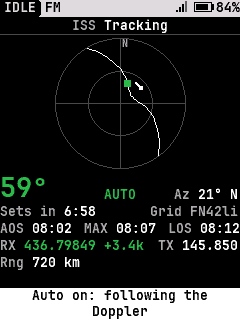
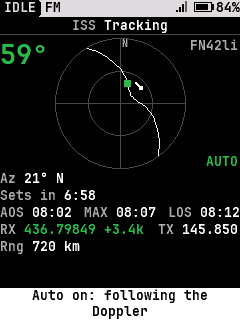
Tracking: elevation and the bare locator in the plot's top corners, AUTO in the bottom one
On a tall panel the corners of the plot's square are empty. The elevation (nothing while below the horizon) goes
top left, the locator without its label top right, AUTO bottom right. That frees the elevation's row and the
locator's room for the numbers below. The 'Grid' label is gone from the screen.

Claude-Session: https://claude.ai/code/session_01MdiBNQ6CEoU6TQqfu2kZeZ

diff --git a/core/ui/ui_sat.c b/core/ui/ui_sat.c
@@ -801,18 +801,13 @@ static void track_draw(void)
 	bool alt_row = alt_hz != 0 && prof && p.down_hz != 0;
 	bool tune_row = !on && have_p;
 	// Where you are, for the grid locator a contact asks for
-	char loc[8], grid[16];
-	loc[0] = grid[0] = '\0';
+	char loc[8];
+	loc[0] = '\0';
 	if (st.pos_ok) {
 		sbuf_t lb;
 		sb_init(&lb, loc, sizeof loc);
 		sb_locator(&lb, st.lat_e7, st.lon_e7);
-		sb_init(&lb, grid, sizeof grid);
-		sb_str(&lb, TR("Grid"));
-		sb_chr(&lb, ' ');
-		sb_str(&lb, loc);
 	}
-	int grid_w = gfx_text_width(fs, grid);
 	// The pass's three times in the chosen zone (Pass times: local or UTC), the highest point from the service
 	uint32_t t_max = trk_tca != 0 ? trk_tca : trk_aos / 2u + trk_los / 2u;
 	char t_aos[8], t_max_s[8], t_los[8];
@@ -834,7 +829,7 @@ static void track_draw(void)
 	int t_rows = !below || !times ? 0 : t_cols ? 1 : 2;
 	int side = below ? w : (h < w / 2 ? h : w / 2);
 	if (below) {
-		int need = (seen ? big->h + 1 : have ? fs->h + 2 : 0) + (st.utc != 0 ? rh : 0) + t_rows * rh +
+		int need = (seen ? rh : have ? fs->h + 2 : 0) + (st.utc != 0 ? rh : 0) + t_rows * rh +
 			   (one_row ? rh : (rxs[0] != '\0' ? rh : 0) + (txs[0] != '\0' ? rh : 0)) + (alt_row ? rh : 0) +
 			   (tune_row ? rh : 0) + (trk_follow.on && !one_row ? rh : 0) + (seen ? rh : 0);
 		int fit = h - need - 3;
@@ -846,10 +841,22 @@ static void track_draw(void)
 	int r = side / 2 - 1;
 	int cx = below ? w / 2 : r + 1, cy = y + r + 1;
 	plot(cx, cy, r, seen ? &live : NULL);
+	if (below) {
+		// The corners of the plot's square are empty: the elevation large at the left (nothing while below the horizon), the
+		// locator at the right, bare ("FN42li": a contact that asks for it knows what it looks like)
+		if (seen) {
+			sbuf_t eb;
+			char el[8];
+			sb_init(&eb, el, sizeof el);
+			sb_i32(&eb, live.el);
+			sb_str(&eb, GLYPH_DEGREE);
+			gfx_text(big, 0, y + 1, el, ui_col.rx);
+		}
+		if (loc[0] != '\0')
+			gfx_text(fs, w - gfx_text_width(fs, loc) - 2, y + 1, loc, ui_col.dim);
+	}
 	int x = below ? 0 : cx + r + 5;
 	int ty = below ? cy + r + 3 : y;
-	int cd_y = ty;		// the countdown's row (the first row of the numbers when there is no countdown)
-	int el_y = ty;		// the elevation's row
 	bool near = st.utc == 0 || (st.utc + UI_SAT_TRACK_MARGIN_S >= trk_aos && st.utc < trk_los + UI_SAT_TRACK_MARGIN_S);
 	if (!seen) {
 		sb_init(&b, buf, sizeof buf);
@@ -861,6 +868,12 @@ static void track_draw(void)
 			gfx_text(ui_layout.small, x, ty, buf, ui_col.dim);
 			ty += ui_layout.small->h + 2;
 		}
+	} else if (below) {
+		sb_init(&b, buf, sizeof buf);
+		sb_u32(&b, live.az, 1);
+		sb_str(&b, GLYPH_DEGREE " ");
+		sb_compass(&b, live.az);
+		trow(x, &ty, "Az", buf, ui_col.fg);
 	} else {
 		// "62°" large, then the way across the sky: on the same row when it fits (a line saved for the times), else under it
 		sb_init(&b, buf, sizeof buf);
@@ -889,11 +902,9 @@ static void track_draw(void)
 			trow(x, &ty, "Az", az, ui_col.fg);
 		}
 	}
-	bool cd_grid = false;	// the locator is on the countdown's row
 	// The countdown: to the set while it is up, else to the rise (it comes before the rest: a small panel has no room).
 	// Beside the plot the row also carries the time of that event, the locator after them when it fits
 	if (st.utc != 0) {
-		cd_y = ty;
 		bool up = st.utc >= trk_aos && st.utc < trk_los;
 		char cd[16], c1[40], c2[40], c3[40];
 		sb_init(&b, cd, sizeof cd);
@@ -922,16 +933,9 @@ static void track_draw(void)
 		// Beside the plot the label is the event (its time is in the row); on a tall panel the times row below has AOS and LOS,
 		// so this one says what the countdown is to, in words
 		const char *lab = st.utc >= trk_los ? "" : below ? (up ? TR("Sets in") : TR("Rises in")) : up ? "LOS" : "AOS";
-		int cd_w = gfx_text_width(fs, lab) + fs->w + gfx_text_width(fs, cands[nc - 1]);
 		trow_fit(x, &ty, lab, cands, nc, st.utc >= trk_los ? ui_col.warn : ui_col.fg);
-		// A tall panel: the locator goes right aligned on this row if it fits, else on the LOS row below
-		if (below && grid[0] != '\0' && cd_w + 2 * fs->w + grid_w <= w) {
-			gfx_text(fs, w - grid_w - 2, cd_y, grid, ui_col.dim);
-			cd_grid = true;
-		}
 	}
 	// The pass's times (a tall panel; beside the plot they come after the frequencies, below)
-	bool grid_done = cd_grid;
 	if (below && times) {
 		int gap = t_cols ? (w - tw[0] - tw[1] - tw[2]) / 2 : 0;
 		if (t_cols && ty + fs->h <= ui_layout.hint_y) {
@@ -953,16 +957,11 @@ static void track_draw(void)
 			}
 			if (ty + fs->h <= ui_layout.hint_y) {
 				int lx = gfx_text(fs, 0, ty, "LOS", ui_col.dim);
-				lx = gfx_text(fs, lx + fs->w, ty, t_los, ui_col.fg);
-				if (!grid_done && grid[0] != '\0' && lx + 2 * fs->w + grid_w <= w) {
-					gfx_text(fs, w - grid_w - 2, ty, grid, ui_col.dim);
-					grid_done = true;
-				}
+				gfx_text(fs, lx + fs->w, ty, t_los, ui_col.fg);
 				ty += rh;
 			}
 		}
 	}
-	int rx_y = ty, rx_end = 0;	// the RX row, and where its text ends: AUTO goes at its right
 	if (one_row && ty + fs->h <= ui_layout.hint_y) {
 		int lx = gfx_text(fs, 0, ty, "RX", ui_col.dim);
 		gfx_text(fs, lx + fs->w, ty, rxs, rc);
@@ -970,10 +969,8 @@ static void track_draw(void)
 		gfx_text(fs, lx + fs->w, ty, txs, tc);
 		ty += rh;
 	} else {
-		if (rxs[0] != '\0') {
+		if (rxs[0] != '\0')
 			trow(x, &ty, "RX", rxs, rc);
-			rx_end = x + rxw;
-		}
 		if (txs[0] != '\0')
 			trow(x, &ty, "TX", txs, tc);
 	}
@@ -998,14 +995,11 @@ static void track_draw(void)
 		trow(x, &ty, room ? word : ">", buf, ui_col.dim);
 	}
 	if (trk_follow.on) {
-		// On a tall panel "AUTO" ends the RX row (the first row of the numbers is the grid's, or the elevation's); else,
-		// and where the RX text runs too far right for it, an "Auto" row
+		// On a tall panel "AUTO" goes in the plot's empty lower right corner; else an "Auto" row
 		const font_t *sm = ui_layout.small;
 		int ax = w - gfx_text_width(sm, "AUTO") - 2;
-		if (one_row)	// RX and TX share their row: AUTO goes on the elevation's, between it and the azimuth
-			gfx_text(sm, w / 2 - gfx_text_width(sm, "AUTO") / 2, el_y + big->h - sm->h, "AUTO", ui_col.rx);
-		else if (below && rx_end != 0 && rx_end + sm->w <= ax)
-			gfx_text(sm, ax, rx_y, "AUTO", ui_col.rx);
+		if (below)	// the plot's lower right corner is empty
+			gfx_text(sm, ax, y + side - sm->h, "AUTO", ui_col.rx);
 		else
 			trow(x, &ty, "Auto", TR("on"), ui_col.rx);
 	}

diff --git a/docs/spec/ui.md b/docs/spec/ui.md
@@ -289,11 +289,11 @@ the results arrive; a list redraws every second.
 | A pass's row | the rise time and the peak elevation, then the arrow, the directions it rises and sets in and its length ("↘ NW→SE 13m", shorter forms where it doesn't fit); a "Tomorrow" line (not focusable) before the first pass of the next local day; "Working…" while the 24 hours aren't all searched |
 | Track title | the satellite's name and "Tracking" |
 | Track plot | a sky plot with north up: the pass's whole path (24 points, worked out by the service), the pass's arrow beside the middle of the path, and the satellite as a dot, green above the horizon |
-| Track numbers | the elevation large (or "Below horizon"), azimuth with its compass point, the time to the set ("Sets in 6:58" on a tall panel, "LOS 08:12 6:58" beside the plot) or to the rise ("Rises in" / "AOS"), the radio's own frequencies, the range, and the pass's times AOS, MAX (the highest point, `sat_pass_t.tca`, carried as `tca` in the service's rows) and LOS as hh:mm in the zone of `utc_offset_min` (local, or UTC with "Pass times in UTC"). A tall panel puts the three in one row of columns under the countdown, or, when the text is too wide for that (the larger font), AOS and MAX on one row and LOS under them, in the order they happen; the plot then shrinks (to a third of the width at least) so the rows fit, and the rows that still don't are dropped from the bottom; beside the plot the countdown row carries its event's time ("LOS 08:12 6:58", the time alone when the row is narrow) and MAX and the other end come after the frequencies, each only where a row is left; the elevation and the azimuth share a row when they fit. A tall panel also puts RX and TX on one row when both fit (else one to a row), and "AUTO" then goes on the elevation's row. A small panel drops what doesn't fit, from the bottom |
+| Track numbers | the elevation large (or "Below horizon"; on a tall panel the elevation sits large in the plot's upper left corner, nothing there while the satellite is below the horizon), azimuth with its compass point, the time to the set ("Sets in 6:58" on a tall panel, "LOS 08:12 6:58" beside the plot) or to the rise ("Rises in" / "AOS"), the radio's own frequencies, the range, and the pass's times AOS, MAX (the highest point, `sat_pass_t.tca`, carried as `tca` in the service's rows) and LOS as hh:mm in the zone of `utc_offset_min` (local, or UTC with "Pass times in UTC"). A tall panel puts the three in one row of columns under the countdown, or, when the text is too wide for that (the larger font), AOS and MAX on one row and LOS under them, in the order they happen; the plot then shrinks (to a third of the width at least) so the rows fit, and the rows that still don't are dropped from the bottom; beside the plot the countdown row carries its event's time ("LOS 08:12 6:58", the time alone when the row is narrow) and MAX and the other end come after the frequencies, each only where a row is left; beside the plot the elevation and the azimuth share a row when they fit. A tall panel also puts RX and TX on one row when both fit (else one to a row), and "AUTO" goes in the plot's empty lower right corner. A small panel drops what doesn't fit, from the bottom |
 | Track keys | `#` tune the receiver to the downlink (first press: the VFO on the satellite's profile; later: a light retune, `RREQ_RX_HZ`), `*` following the Doppler on and off (tunes first when not tuned; the screen takes `*` from the quick menu, `SF_OWN_QUICK`), `OK` swaps the base of the downlink between the satellite's own and the one saved for it (with none saved it opens the Frequency screen), `1` opens the Frequency screen (`sat-freq`, below), `0` squelch open on and off (FM; a toast says which; Back closes it), the dial or Up / Down nudge the downlink 1 kHz a detent (toast "Dial +1.0k"; a short `#` keeps the nudge, a held `#` clears it and retunes to the computed frequency alone: the screen's key hook gets a long CONTEXT first, `SF_HOLD_CONTEXT`, before the talk target picker). Back ends following and leaves the VFO this screen entered (`.leave` in `ui_scr_def_t`: popped or Home). The hint row lists the keys with shorter forms for narrow panels ("0 Squelch  # Tune  * Auto  Back"; "# Retune" once tuned, "* Stop" while following) |
 | Track receive | always the frequencies the radio is on, whatever it was playing: "RX" and "TX" from the radio's view (`ch.rx_hz`, `ch.tx_hz`: a satellite's are the VFO's after `#`, the downlink with its shift from the profile's and the uplink as the split; the TX one is the nominal uplink, the radio does not shift it). Tuned, the RX row is in the receive color, in the warning color when the receiver is 1.5 kHz or more from where it should be; not tuned, a dim "Tune" row after TX gives the corrected downlink to tune to. While following, "AUTO" in the receive color at the right end of the RX row (a tall panel, when the text leaves room) or an "Auto on" row |
 | Frequency | Tracking > OK (`sat-freq`): the typed digits large as on the VFO (`ui_freq_entry_digit` / `ui_freq_entry_hz`: positional, only digits some receive band can start with), what it is for, "Receive only", the satellite's own downlink and, when set, yours. OK saves the typed frequency for the satellite (`UI_SET_SAT_ALT_NORAD` / `_HZ`: one frequency, the last typed) and listens on it, as the base the Doppler works on (a toast says "Listening on 145.80000: RX only"); with nothing typed it just leaves. Tracking's OK then swaps between it and the satellite's own ("The satellite's own frequency"), and an "OK" row there shows the frequency a press swaps to. The screen lists "Its own" and "Yours" under the digits. Back takes a digit back, with none typed it leaves. A fewer-than-MHz-digits or out-of-band entry is refused with its toast and the screen stays. Kept in the settings across power cycles; Tracking starts on the satellite's own each time. The TX row on Tracking reads "RX only" while yours is on. The stack is 7 deep for it (Home, hub, Tools, Satellites, Passes, Tracking, Frequency) |
-| Track grid | your Maidenhead locator (`sb_locator`, 6 characters, "FN42li") from the position the passes are worked out for (`ui_sat_status_t.pos_ok`, `lat_e7`, `lon_e7`; none without a position). On a tall panel "Grid FN42li" dim, right aligned on the countdown's row (AOS or LOS) when it fits, else on the LOS row under the times, else not shown; beside the plot it follows the countdown ("AOS 26:58  FN42li") when the row is wide enough. A small panel drops it; the 128x64 panel has no room |
+| Track grid | your Maidenhead locator (`sb_locator`, 6 characters, "FN42li") from the position the passes are worked out for (`ui_sat_status_t.pos_ok`, `lat_e7`, `lon_e7`; none without a position). On a tall panel the bare locator ("FN42li", dim, no label) sits in the plot's upper right corner; beside the plot it follows the countdown ("AOS 26:58  FN42li") when the row is wide enough. A small panel drops it; the 128x64 panel has no room |
 | Set time | Settings > Location > Set time (`set-time`): UTC as `2026-10-28` over `14:05:02`, the selected field underlined, and the same moment in local time. Up / Down / the knob change the field; digits fill it (two for the year's last two, then the next field); `#` or Right goes to the next field, Left back; OK sets the clock (and the RTC, [satellite.md](satellite.md) 4.1.1), Back leaves it. "Not a date" for a day that month doesn't have. Not field use |
 | Receive sound | the last row of the list, with `CONFIG_SAT_SOUND` ([sound-transfer.md](sound-transfer.md); `sat-sound`, `ui_sat.c`): opening it asks the radio core to listen at the microphone (`radio_req_sound`), leaving it stops. The title "Receive sound"; while listening a bar for the level, before the first satellite a line "Lvl 450 Fr 2 Err 1" (the loudest sample of the last block, frames decoded, frames that failed a check), then "Sats heard 3 of 32", "New 2  Updated 1" and "Kept 0  Problems 0" (new is a satellite the radio didn't have, kept the same or an older set); not on a DMR channel, transmitting or storing, or with no store: two lines say so, in the warning color. A list with no satellites stored says "No satellites stored: load them over the cable, or by sound" in its body and still has this row |
 | Tools row 0 | the first satellite on the list with a pass: "ISS 08:32", or "ISS up" while it is overhead |
